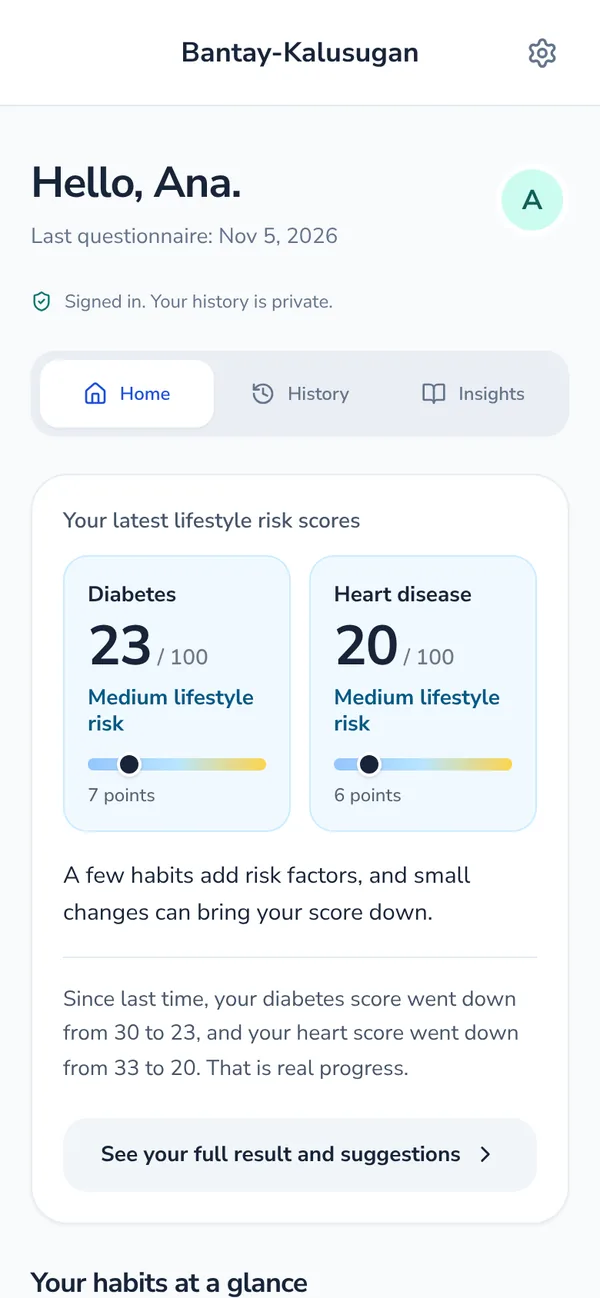
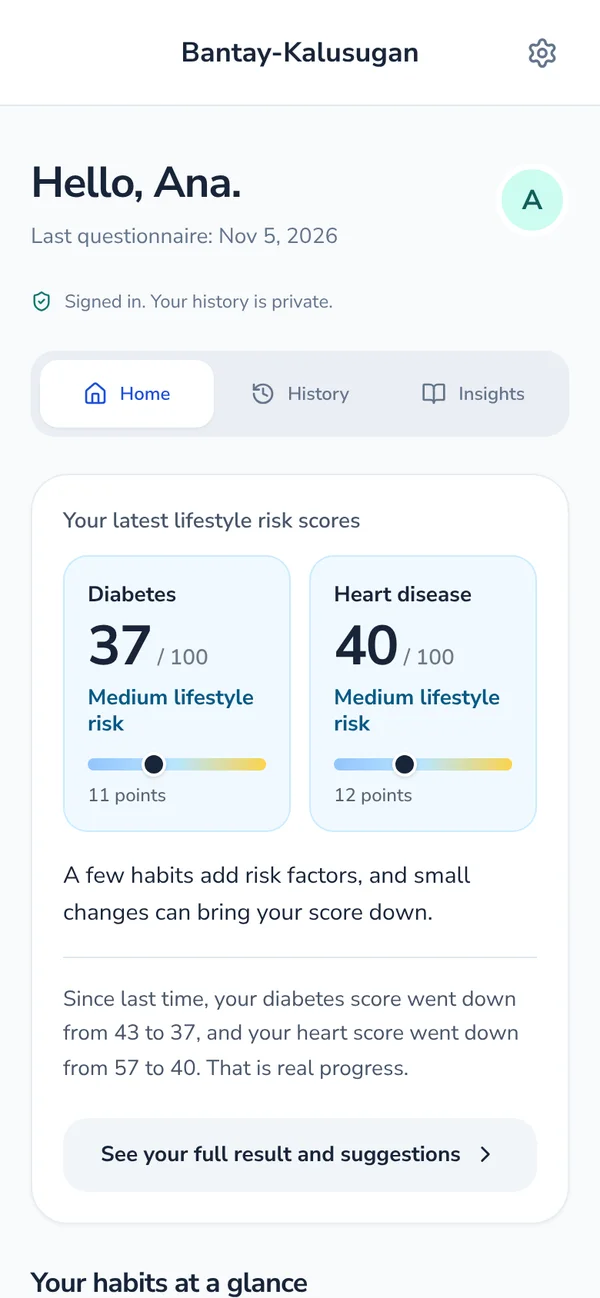
updated privacy, and screenshots for the website. Added og-image.jpg for social media sharing.

diff --git a/index.html b/index.html
@@ -20,7 +20,7 @@
   <meta property="og:image" content="https://mendozaernestowork-blip.github.io/bantay-kalusugan/og-image.jpg" />
   <meta property="og:image:width" content="1200" />
   <meta property="og:image:height" content="630" />
-  <meta property="og:image:alt" content="Bantay-Kalusugan app showing two lifestyle risk scores out of 100: diabetes 23 and heart disease 20" />
+  <meta property="og:image:alt" content="Bantay-Kalusugan app showing two lifestyle risk scores out of 100: diabetes 37 and heart disease 40" />
   <meta property="og:locale" content="en_PH" />
   <meta property="og:locale:alternate" content="fil_PH" />
   <meta name="twitter:card" content="summary_large_image" />
@@ -304,7 +304,7 @@
         <ul class="hero-facts"><li>Free</li><li>English and Tagalog</li><li>About 10 minutes</li><li>Not a diagnosis</li></ul>
       </div>
       <div class="hero-visual reveal">
-        <div class="phone"><img src="images/screen-result.webp" width="600" height="1298" fetchpriority="high" alt="Result screen with two lifestyle risk scores out of 100: diabetes 23 and heart disease 20, both in the medium range"></div>
+        <div class="phone"><img src="images/screen-result.webp" width="600" height="1298" fetchpriority="high" alt="Result screen with two lifestyle risk scores out of 100: diabetes 37 and heart disease 40, both in the medium range"></div>
         <div class="floating-card card-a"><span class="mini-icon" aria-hidden="true">✦</span><div><strong>Explainable</strong><small>See what raised or lowered it</small></div></div>
         <div class="floating-card card-b"><span class="mini-icon" aria-hidden="true">✓</span><div><strong>Made for Filipinos</strong><small>Trained on local answers</small></div></div>
       </div>
@@ -319,12 +319,12 @@
         <p>From the first question to the last suggestion, the app is written to help you understand your result and feel able to act on it.</p>
       </div>
       <div class="feature-grid">
-        <article class="feature-card reveal"><div class="feature-icon mint"><svg viewBox="0 0 24 24" aria-hidden="true"><path d="M9 4h6M9 4a2 2 0 0 0-2 2v0h10v0a2 2 0 0 0-2-2M7 6H5v15h14V6h-2"/><path d="m9 13 2 2 4-4"/></svg></div><h3>A short, guided questionnaire</h3><p>Six sections on your health history, measurements, meals, activity, sleep and stress, in English and Tagalog.</p></article>
+        <article class="feature-card reveal"><div class="feature-icon mint"><svg viewBox="0 0 24 24" aria-hidden="true"><path d="M9 4h6M9 4a2 2 0 0 0-2 2v0h10v0a2 2 0 0 0-2-2M7 6H5v15h14V6h-2"/><path d="m9 13 2 2 4-4"/></svg></div><h3>A short, guided questionnaire</h3><p>Five sections on your health history, measurements, meals, activity, sleep and stress, in English and Tagalog.</p></article>
         <article class="feature-card reveal"><div class="feature-icon"><svg viewBox="0 0 24 24" aria-hidden="true"><path d="M3 12h4l3-8 4 16 3-8h4"/></svg></div><h3>Two clear scores</h3><p>A diabetes score and a heart disease score, each from 0 to 100 with its own level, so you can see where you stand on both.</p></article>
         <article class="feature-card reveal"><div class="feature-icon violet"><svg viewBox="0 0 24 24" aria-hidden="true"><circle cx="12" cy="12" r="8.5"/><path d="M12 8v5M12 16h.01"/></svg></div><h3>The "why" behind it</h3><p>See which answers pushed each score up or down and why, then try a change to see how your scores could move.</p></article>
         <article class="feature-card reveal"><div class="feature-icon gold"><svg viewBox="0 0 24 24" aria-hidden="true"><path d="M9 18h6M10 21h4M12 3a6 6 0 0 0-3.5 10.9c.6.5 1 1.2 1 2.1h5c0-.9.4-1.6 1-2.1A6 6 0 0 0 12 3Z"/></svg></div><h3>Small, personal steps</h3><p>Suggestions picked from your own answers, each showing how much it could lower your scores.</p></article>
         <article class="feature-card reveal"><div class="feature-icon mint"><svg viewBox="0 0 24 24" aria-hidden="true"><path d="M4 19V9M10 19V5M16 19v-7M22 19H2"/></svg></div><h3>Your habits at a glance</h3><p>Activity, vegetables and fruit, sweet drinks, sleep and BMI compared with health guidelines, plus a daily tip.</p></article>
-        <article class="feature-card reveal"><div class="feature-icon"><svg viewBox="0 0 24 24" aria-hidden="true"><path d="M12 3 5 6v5c0 4.4 3 8.4 7 10 4-1.6 7-5.6 7-10V6l-7-3Z"/></svg></div><h3>Fair and private by design</h3><p>The model was checked across sex, age, income and education groups. Nothing is saved until you give consent.</p></article>
+        <article class="feature-card reveal"><div class="feature-icon"><svg viewBox="0 0 24 24" aria-hidden="true"><path d="M12 3 5 6v5c0 4.4 3 8.4 7 10 4-1.6 7-5.6 7-10V6l-7-3Z"/></svg></div><h3>Fair and private by design</h3><p>The model was checked for fairness across sex, age, income and education groups in the study data. In the app, nothing is saved until you give consent.</p></article>
       </div>
     </div></section>
 
@@ -354,7 +354,7 @@
           <ul class="check-list"><li>Both scores and the change since last time</li><li>Habits compared with WHO guidelines</li><li>A new tip every day</li></ul>
         </div>
         <div class="screenshot-frame reveal"><div class="screenshot-pair">
-          <div class="phone"><img src="images/screen-home.webp" width="600" height="1298" loading="lazy" alt="Home screen with the latest scores, diabetes 23 and heart disease 20 out of 100, and how each went down since last time"></div>
+          <div class="phone"><img src="images/screen-home.webp" width="600" height="1298" loading="lazy" alt="Home screen with the latest scores, diabetes 37 and heart disease 40 out of 100, and how each went down since last time"></div>
           <div class="phone"><img src="images/screen-home-habits.webp" width="600" height="1298" loading="lazy" alt="Habits at a glance: physical activity, vegetables and fruit, sweet drinks, sleep, BMI, and smoking and vaping compared with goals"></div>
         </div></div>
       </article>
@@ -364,7 +364,7 @@
           <p>Six short sections, one question at a time, with large answer buttons and every question in both Tagalog and English.</p>
           <ul class="check-list"><li>Progress shown section by section</li><li>Bilingual questions and answers</li><li>Review your answers before submitting</li></ul>
         </div>
-        <div class="screenshot-frame reveal"><div class="phone"><img src="images/screen-survey.webp" width="600" height="1298" loading="lazy" alt="Questionnaire screen, section 1 of 6: Impormasyon tungkol sa iyo, with the age question answered"></div></div>
+        <div class="screenshot-frame reveal"><div class="phone"><img src="images/screen-survey.webp" width="600" height="1298" loading="lazy" alt="Questionnaire screen, section 1 of 5: Impormasyon tungkol sa iyo, with the age question answered"></div></div>
       </article>
       <article class="showcase-row">
         <div class="showcase-copy reveal">
@@ -373,8 +373,8 @@
           <ul class="check-list"><li>Which answers pushed each score up or down</li><li>Try a change and watch both scores move</li><li>Suggestions picked from your answers</li></ul>
         </div>
         <div class="screenshot-frame reveal"><div class="screenshot-pair">
-          <div class="phone"><img src="images/screen-result-why.webp" width="600" height="1298" loading="lazy" alt="How the model reads your answers: smoking and vaping, sweet drinks and rice raise the estimate, while vegetables and fruit lower it"></div>
-          <div class="phone"><img src="images/screen-result-try.webp" width="600" height="1298" loading="lazy" alt="Try a change: with sweet drinks cut to 1 to 2 times a week, the diabetes score goes from 23 to 17 and the heart disease score from 20 to 17"></div>
+          <div class="phone"><img src="images/screen-result-why.webp" width="600" height="1298" loading="lazy" alt="How the model reads your answers: fried, fast and fatty food and family history raise the estimate, while rice, vegetables and fruit, and age lower it"></div>
+          <div class="phone"><img src="images/screen-result-try.webp" width="600" height="1298" loading="lazy" alt="Try a change: with salty snacks cut to never, the diabetes score goes from 37 to 33 and the heart disease score from 40 to 37"></div>
         </div></div>
       </article>
     </div></section>
@@ -389,19 +389,19 @@
       <div class="risk-example reveal" role="group" aria-label="Example result">
         <span class="risk-label">Example result</span>
         <div class="score-pair">
-          <div class="score-tile"><span>Diabetes</span><b>23<small>/ 100</small></b><em>Medium</em><span class="score-bar" aria-hidden="true"><i style="left:23%"></i></span></div>
-          <div class="score-tile"><span>Heart disease</span><b>20<small>/ 100</small></b><em>Medium</em><span class="score-bar" aria-hidden="true"><i style="left:20%"></i></span></div>
+          <div class="score-tile"><span>Diabetes</span><b>37<small>/ 100</small></b><em>Medium</em><span class="score-bar" aria-hidden="true"><i style="left:37%"></i></span></div>
+          <div class="score-tile"><span>Heart disease</span><b>40<small>/ 100</small></b><em>Medium</em><span class="score-bar" aria-hidden="true"><i style="left:40%"></i></span></div>
         </div>
-        <div class="factor"><span>Smoking and vaping</span><b class="up">↑ raises</b></div>
-        <div class="factor"><span>Sweet drinks</span><b class="up">↑ raises</b></div>
+        <div class="factor"><span>Fried, fast and fatty food</span><b class="up">↑ raises</b></div>
+        <div class="factor"><span>Family history</span><b class="up">↑ raises</b></div>
         <div class="factor"><span>Vegetables and fruit</span><b class="down">↓ lowers</b></div>
-        <div class="try-row"><strong>Try a change: sweet drinks 1 to 2 times a week</strong>Diabetes 23 to 17, heart disease 20 to 17</div>
+        <div class="try-row"><strong>Try a change: salty snacks to never</strong>Diabetes 37 to 33, heart disease 40 to 37</div>
       </div>
     </div></section>
 
     <section class="section responsibility"><div class="container responsibility-grid">
-      <article class="reveal"><span class="eyebrow">Privacy</span><h3>Your trust matters.</h3><p>Before anything is saved, the app explains what is collected and why, and asks for your consent. Income and education answers are stored separately and are only used to check fairness. Read the full <a href="privacy.html">privacy policy</a>.</p></article>
-      <article class="reveal"><span class="eyebrow">Responsible use</span><h3>Helpful information, not a diagnosis.</h3><p>Bantay-Kalusugan is for screening, learning and research. A result is not a diagnosis and does not replace a check-up. If either score is in the higher range, or the app suggests a check-up, please visit a doctor or your barangay health center.</p></article>
+      <article class="reveal"><span class="eyebrow">Privacy</span><h3>Your trust matters.</h3><p>Before anything is saved, the app shows the key points of its consent form and privacy notice and asks you to agree. Your answers are used only to give you your results. They are not used to train the model or for research, and the app does not ask about income or education. Read the full <a href="privacy.html">privacy policy</a>.</p></article>
+      <article class="reveal"><span class="eyebrow">Responsible use</span><h3>Helpful information, not a diagnosis.</h3><p>Bantay-Kalusugan is for screening and learning. A result is not a diagnosis and does not replace a check-up. If either score is in the higher range, or the app suggests a check-up, please visit a doctor or your barangay health center.</p></article>
     </div></section>
 
     <section class="section download-section" id="download"><div class="container"><div class="download-card">
@@ -470,11 +470,12 @@
       <div class="section-heading centered reveal"><span class="eyebrow">FAQ</span><h2>A few things you might be wondering.</h2></div>
       <div class="faq-list reveal">
         <details><summary>What is Bantay-Kalusugan?</summary><p>Bantay-Kalusugan (also written Bantay Kalusugan) is a free Android app that screens your risk for type 2 diabetes and heart disease from a short questionnaire, explains what shaped your result, and suggests small steps. It was built as a University of the East thesis project.</p></details>
-        <details><summary>Does the app give a medical diagnosis?</summary><p>No. It is a screening aid for learning and research. Only a health professional, usually with tests such as blood sugar and cholesterol, can tell you whether you have a condition.</p></details>
-        <details><summary>What do the two scores mean?</summary><p>Your answers add or remove points for diabetes and for heart disease, and each total is shown as a score from 0 to 100. 0 to 4 points is a lower lifestyle risk, 5 to 8 is medium, and 9 or more is higher. A higher score means more risk factors worth looking at. It is not a chance of getting sick, and it does not mean you are sick.</p></details>
+        <details><summary>Does the app give a medical diagnosis?</summary><p>No. It is a screening aid. Only a health professional, usually with tests such as blood sugar and cholesterol, can tell you whether you have a condition.</p></details>
+        <details><summary>What do the two scores mean?</summary><p>Your answers add or remove points for diabetes and for heart disease, and each total is shown as a score from 0 to 100. 0 to 7 points is a lower lifestyle risk, 8 to 14 is medium, and 15 or more is higher. A higher score means more risk factors worth looking at. It is not a chance of getting sick, and it does not mean you are sick.</p></details>
         <details><summary>Why does it show the "why" behind my result?</summary><p>The project is about explainable machine learning. Instead of a number alone, the app shows which answers moved each score up or down, and lets you try a change to see how your scores could move, so you can see what is worth working on.</p></details>
         <details><summary>How often should I answer the questionnaire?</summary><p>Every 6 to 12 months. Habits take time to change, so answering again sooner will not show a real difference.</p></details>
-        <details><summary>What data does the app collect?</summary><p>Your name, mobile number or email, and your questionnaire answers, saved only after you give consent. You can delete your saved questionnaires in the app. See the <a href="privacy.html">privacy policy</a> for details.</p></details>
+        <details><summary>What data does the app collect?</summary><p>Your name, mobile number or email, and your questionnaire answers, saved only after you give consent. They are used only for your own results, not for research or to train the model. You can delete your saved questionnaires in the app. See the <a href="privacy.html">privacy policy</a> for details.</p></details>
+        <details><summary>I forgot my password. What do I do?</summary><p>On the sign-in screen, tap <strong>Forgot password?</strong> and enter the mobile number or email you signed up with. We send a 6-digit code that expires after 10 minutes. Enter it with a new password. Changing your password signs you out on your other phones.</p></details>
         <details><summary>Is it made for Filipino users?</summary><p>Yes. The questions are in Tagalog and English, the measurements use Asian cut-offs, and the model was trained on answers from 391 Filipino adults.</p></details>
         <details><summary>Will there be an iPhone version?</summary><p>Not yet. The app is currently available for Android 7.0 or newer.</p></details>
       </div>

diff --git a/privacy.html b/privacy.html
@@ -3,18 +3,18 @@
 <head>
   <meta charset="utf-8" />
   <meta name="viewport" content="width=device-width, initial-scale=1" />
-  <!-- DRAFT: have your adviser and ethics reviewer check this policy, and fill in every "EDIT" item, before publishing. -->
+  <!-- Keep this page in line with the consent form in the app (lib/consentForm.ts). -->
   <title>Privacy Policy | Bantay-Kalusugan</title>
   <meta name="description" content="How the Bantay-Kalusugan app collects, uses, stores and protects your personal and health information, and your rights under the Philippine Data Privacy Act." />
-  <link rel="canonical" href="https://YOUR-SITE-URL/privacy.html" />
+  <link rel="canonical" href="https://mendozaernestowork-blip.github.io/bantay-kalusugan/privacy.html" />
   <meta name="theme-color" content="#123b8f" />
   <link rel="icon" href="favicon.svg" type="image/svg+xml" />
   <link rel="apple-touch-icon" href="apple-touch-icon.png" />
   <meta property="og:type" content="article" />
   <meta property="og:title" content="Bantay-Kalusugan privacy policy" />
   <meta property="og:description" content="What the app collects, why, where it is stored, and your rights." />
-  <meta property="og:url" content="https://YOUR-SITE-URL/privacy.html" />
-  <meta property="og:image" content="https://YOUR-SITE-URL/og-image.jpg" />
+  <meta property="og:url" content="https://mendozaernestowork-blip.github.io/bantay-kalusugan/privacy.html" />
+  <meta property="og:image" content="https://mendozaernestowork-blip.github.io/bantay-kalusugan/og-image.jpg" />
   <link rel="preconnect" href="https://fonts.googleapis.com">
   <link rel="preconnect" href="https://fonts.gstatic.com" crossorigin>
   <link href="https://fonts.googleapis.com/css2?family=DM+Sans:wght@400;500;700&family=Plus+Jakarta+Sans:wght@700;800&display=swap" rel="stylesheet">
@@ -49,75 +49,96 @@
   <header><div class="bar"><a class="brand" href="index.html"><img src="favicon.svg" alt="" width="34" height="34">Bantay-Kalusugan</a><a href="index.html">Back to home</a></div></header>
   <main>
     <h1>Privacy policy</h1>
-    <p class="updated">Last updated: 3 November 2026</p>
+    <p class="updated">Last updated: 7 November 2026 &middot; matches the consent form in the app (version 3, November 2026)</p>
 
     <section class="summary" aria-label="Summary">
       <h2>The short version</h2>
       <ul>
-        <li>We collect your name, mobile number or email, and your questionnaire answers.</li>
-        <li>Nothing from the questionnaire is saved until you give consent in the app.</li>
-        <li>Your answers are used to show your result and, with your consent, for our thesis research.</li>
-        <li>We do not sell your data, show ads, or share it with insurers or employers.</li>
-        <li>You can delete your saved questionnaires in the app, and ask us to delete your account.</li>
+        <li>Bantay-Kalusugan is a screening tool. It does not diagnose disease.</li>
+        <li>Your scores are calculated on your phone. Your answers and results are saved to our server only after you agree.</li>
+        <li>We collect your account details, your answers, including health information, and your results.</li>
+        <li>Your answers are used only for your own results. They are not used to train the model or for research.</li>
+        <li>We do not sell your information or share it with employers or insurance companies.</li>
+        <li>You can delete your saved results in Settings and ask us to delete your account.</li>
       </ul>
     </section>
 
     <h2>Who we are</h2>
-    <p>Bantay-Kalusugan is an academic project by BS Computer Science students at the University of the East, Manila, for the thesis <em>"Explainable and Fair Machine Learning for Early Detection and Prediction of Chronic Diseases in the Filipino Population."</em> The research team is responsible for the personal information collected through the app.</p>
-    <!-- EDIT: add team members, adviser and a contact email you will monitor -->
-    <p>Contact: <a href="mailto:EDIT-CONTACT-EMAIL">EDIT-CONTACT-EMAIL</a></p>
+    <p>Bantay-Kalusugan is an academic project by Bachelor of Science in Computer Science students at the College of Computer Studies and Systems (CCSS), University of the East &ndash; Manila, for the thesis <em>&ldquo;Explainable and Fair Machine Learning for Early Detection and Prediction of Chronic Diseases in the Filipino Population.&rdquo;</em> The research team is responsible for the personal information collected through the app.</p>
+    <p>Researchers: Ascue, Michael Vincent; Avellano, Charles Vincent; Fraco, Richard Andrei; Mendoza, Ernesto Jr.; San Jose, Steven Lee</p>
 
     <h2>What we collect</h2>
+    <p>Health information is sensitive personal information under the Data Privacy Act of 2012, so we collect it only with your consent.</p>
     <div class="table-wrap"><table>
       <thead><tr><th>Information</th><th>Why we need it</th></tr></thead>
       <tbody>
         <tr><td>Display name, mobile number or email, and password (stored only as a secure hash)</td><td>To create your account and sign you in</td></tr>
-        <tr><td>One-time verification codes (stored only as a secure hash, and expire after 10 minutes)</td><td>To confirm the mobile number or email is yours</td></tr>
-        <tr><td>Questionnaire answers: age, sex, health history, family history, height, weight, waist, meals, activity, smoking, vaping, alcohol, sleep and stress</td><td>To calculate and show your result, and for research if you consent</td></tr>
-        <tr><td>Education, family income and access to healthcare</td><td>Stored separately and used only to check that the model is fair across groups. Not used to calculate your result.</td></tr>
-        <tr><td>Your result, the model version and the date</td><td>So you can see your history and changes over time</td></tr>
-        <tr><td>The date you gave or withdrew consent</td><td>To show that we only save data you agreed to</td></tr>
+        <tr><td>One-time codes for sign-up and password reset (stored only as a secure hash; they expire after 10 minutes)</td><td>To confirm that the number or address is yours, and to let you reset a forgotten password</td></tr>
+        <tr><td>Questionnaire answers: age, sex, health history, family history, height, weight, waist, eating habits, physical activity, smoking, vaping, alcohol, sleep and stress</td><td>To calculate and show your scores</td></tr>
+        <tr><td>Your scores, the model version and the date</td><td>So you can see your history and changes over time</td></tr>
+        <tr><td>The date and version of the consent you gave</td><td>To show that we save only what you agreed to</td></tr>
       </tbody>
     </table></div>
-    <p>The app does not access your camera, contacts, photos, location or files. It uses the internet only to sign you in and save your results.</p>
+    <p>The app does not ask about your education, income or access to healthcare. It does not access your camera, contacts, photos, location or other files on your phone, and it uses the internet only to sign you in, send codes and save your results.</p>
 
     <h2>How your result is calculated</h2>
-    <p>Your risk level is calculated on your phone by a machine learning model trained on the answers of 391 Filipino adults who took part in our study. The result is a screening estimate, not a diagnosis.</p>
+    <p>Your scores are calculated on your phone by a machine learning model trained on the answers of 391 Filipino adults who took part in our study's survey, so they work even without internet. The model does not learn from what you enter in the app. The result is a screening estimate, not a diagnosis.</p>
 
-    <h2>Where your data is stored</h2>
+    <h2>How we use and share your information</h2>
+    <ul>
+      <li><strong>To give you your results</strong> and explain which answers raised or lowered them.</li>
+      <li><strong>To save your results</strong> to your account, or to your guest session, after you agree. If you are offline, they wait on your phone and are sent when you reconnect.</li>
+    </ul>
+    <p>We do not use your answers to train the model or for research, and we do not sell your information, use it for advertising, or share it with employers or insurance companies. Only authorized members of the research team can access it.</p>
     <p>We use these service providers to run the app. Some of their servers may be outside the Philippines.</p>
     <ul>
-      <li><strong>Supabase</strong>: database where accounts and saved questionnaires are stored, over an encrypted connection.</li>
+      <li><strong>Supabase</strong>: the database where accounts and saved results are stored.</li>
       <li><strong>Render</strong>: hosts the server the app connects to.</li>
-      <li><strong>textbee</strong>: sends SMS verification codes through an Android phone managed by the research team. Your mobile number and the code pass through this service.</li>
-      <li><strong>Brevo</strong>: sends email verification codes. Your email address and the code pass through this service.</li>
+      <li><strong>Brevo</strong>: sends email codes; it receives your email address and the code.</li>
+      <li><strong>textbee</strong>: sends SMS codes through an Android phone managed by the research team; it receives your mobile number and the code.</li>
     </ul>
-    <p>If you are offline when you submit, your answers wait on your phone and are sent when you reconnect. While waiting, they are stored on your phone without extra encryption, so keep your phone locked.</p>
 
-    <h2>Research use</h2>
-    <p>If you consent, your answers may be included in our thesis analysis. Research results are reported only as group statistics. We never publish your name, number, email or individual answers.</p>
+    <h2>How we protect it</h2>
+    <ul>
+      <li>Information sent between the app and our server is encrypted (HTTPS).</li>
+      <li>Passwords and codes are never stored as plain text.</li>
+      <li>Sign-in sessions expire after 30 days, and resetting your password signs you out on every other phone.</li>
+      <li>The database is protected by row-level security, and only authorized members of the research team can access it.</li>
+      <li>If you are offline, answers waiting to be sent are stored on your phone without extra encryption, so keep your phone locked.</li>
+    </ul>
 
     <h2>How long we keep it</h2>
-    <!-- EDIT: replace with the retention period approved for your study -->
-    <p>We keep your data until the end of the study, or until you delete it or ask us to, whichever comes first. Sign-in sessions expire after 30 days.</p>
+    <!-- EDIT: add the study end date once it is set, to match the consent form in the app -->
+    <p>Your account and saved results are kept until the study ends, or until you delete them or ask us to, whichever comes first. They are then permanently deleted.</p>
 
     <h2>Your rights</h2>
-    <p>Under the Data Privacy Act of 2012 (Republic Act No. 10173), you have the right to:</p>
+    <p>Under the Data Privacy Act of 2012 (Republic Act No. 10173), you have the right:</p>
     <ul>
-      <li>be informed about how your data is processed;</li>
-      <li>access your data, and have it corrected if it is wrong;</li>
-      <li>object to processing, and withdraw your consent;</li>
-      <li>have your data deleted or blocked;</li>
-      <li>get a copy of your data in a usable format;</li>
-      <li>file a complaint with the <a href="https://privacy.gov.ph">National Privacy Commission</a>.</li>
+      <li><strong>To be informed:</strong> read this policy and the consent form in the app.</li>
+      <li><strong>To access your information:</strong> see your past results in the app's History tab, or email us for a copy of everything we hold about you.</li>
+      <li><strong>To receive a copy in a usable format:</strong> use the data export option in Settings, or email us.</li>
+      <li><strong>To correct your information:</strong> take the questionnaire again, or email us.</li>
+      <li><strong>To delete your information:</strong> delete your saved results in Settings, or email us to delete your account.</li>
+      <li><strong>To object or withdraw your consent:</strong> email us. Withdrawing does not affect processing done before you withdrew.</li>
+      <li><strong>To file a complaint</strong> with the <a href="https://privacy.gov.ph">National Privacy Commission</a>.</li>
     </ul>
-    <p>You can delete your saved questionnaires anytime in the app under <strong>Settings</strong>. To delete your whole account or use any other right, email us at the contact above.</p>
 
-    <h2>Age requirement</h2>
-    <p>Bantay-Kalusugan is for adults aged 18 to 65. We do not knowingly collect information from anyone younger than 18.</p>
+    <h2>Who can use the app</h2>
+    <p>Bantay-Kalusugan is for adults aged 18 to 65, the age range the model was built for. We do not knowingly collect information from anyone under 18.</p>
+
+    <h2>Health notice</h2>
+    <p>Bantay-Kalusugan is not a medical device and does not diagnose disease. Your scores are a screening estimate based on what you report. Consult a doctor or your barangay health center about your health. In an emergency, such as chest pain, difficulty breathing or sudden weakness on one side of the body, call 911 or go to the nearest hospital right away.</p>
+
+    <h2>Contact us</h2>
+    <ul>
+      <li>Principal researcher: Mendoza, Ernesto Jr. &middot; <a href="mailto:mendoza.ernestojr@ue.edu.ph">mendoza.ernestojr@ue.edu.ph</a></li>
+      <!-- EDIT: add the thesis adviser here once confirmed, as in the app's consent form -->
+      <li>UE Data Protection Officer: <a href="mailto:dpo@ue.edu.ph">dpo@ue.edu.ph</a> &middot; 2219 C.M. Recto Avenue, Manila 1008</li>
+      <li>National Privacy Commission: <a href="https://privacy.gov.ph">privacy.gov.ph</a></li>
+    </ul>
 
     <h2>Changes to this policy</h2>
-    <p>If we change this policy, we will update the date above and, for important changes, tell you in the app.</p>
+    <p>If we change this policy, we will update the date above and tell you in the app. If we change how we use your information, the app will ask for your consent again.</p>
   </main>
   <footer>© 2026 Bantay-Kalusugan research team, University of the East. <a href="index.html">Home</a></footer>
 </body>
